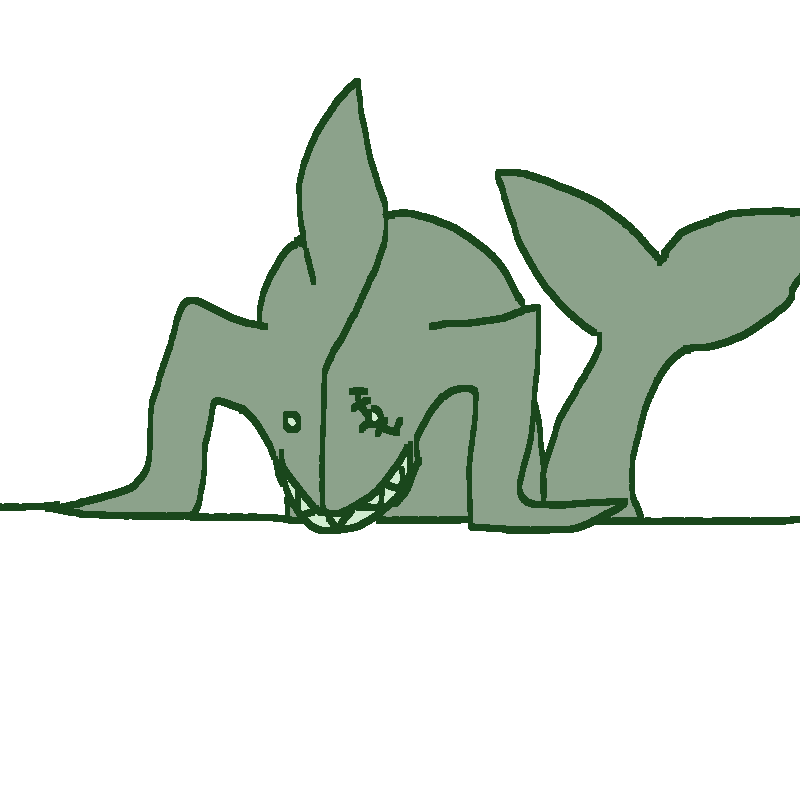
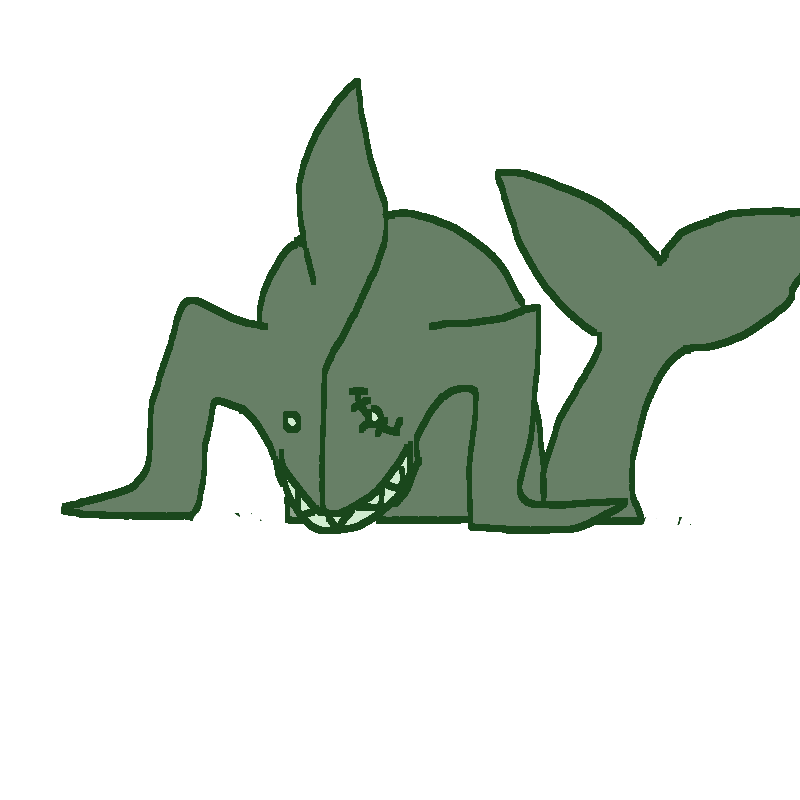
a couple more office foregrounds and proper handling of the 3d elements of the Shark and Penguin clerks. I wanted to add functionality to flip the paraity of Day upon visiting or revisiting any location, but somehow my logic reinforces itself to always set it to true. I looked at it and I cannot see

Changed region(s): [[0.0, 0.0938, 1.0, 0.6562]]

diff --git a/gold.js b/gold.js
@@ -1,12 +1,13 @@
 
 let fg = document.getElementById("Office");
 let clerk = document.getElementById("Clerk");
+let front = document.getElementById("Front");
 let office = localStorage.getItem('office');    //0: Tiger, 1: Locust, 2: Mushroom, 3: Appraisal
-let day = localStorage.getItem('day');          //true: daytime worker, false: night worker; this alternates on visiting the appraisal office particularly.
-console.log(office);
+let day = localStorage.getItem('day');          //true: daytime worker, false: night worker; this alternates on visiting any location, including revisits.
+console.log("Office: " + office + "; Daytime: " + day);
 let plotPoint = 4;
 if(office == 0){
-    document.body.style.backgroundColor = "#35453b";
+    document.body.style.backgroundColor = "#416558";
     fg.src = "images/bankers/TigerOffice.png"
     clerk.src = "images/bankers/Tiger.png";
     plotPoint = 17;
@@ -18,23 +19,27 @@ else if(office == 1){
     plotPoint = 10;
 }
 else if(office == 2){
-    document.body.style.backgroundColor = "#35453b";
+    document.body.style.backgroundColor = "#30481c";
     clerk.src = "images/bankers/Mushroom.png";
-    fg.src = "images/bankers/LocustOffice.png"
+    fg.src = "images/bankers/MushroomOffice.png"
     plotPoint = 21;
 }
 else{
-    document.body.style.backgroundColor = "#35453b";
-    fg.src = "images/bankers/LocustOffice.png"
+    document.body.style.backgroundColor = "#829b83";
+    fg.src = "images/bankers/AppraisalOffice.png"
     plotPoint = 6;
     if(day){
-        clerk.src = "images/bankers/Shark.png";
-        localStorage.setItem('day', false);
+        clerk.src = "images/bankers/SharkBack.png";
+        front.src = "images/bankers/SharkMouth.png";
+        console.log("It is daytime, and there is a shark running the Appraisal Shop.");
     }
     else{
-        clerk.src = "images/bankers/Penguin.png";
-        localStorage.setItem('day', true);
+        clerk.src = "images/bankers/PenguinBack.png";
+        front.src = "images/bankers/PenguinArm.png";
+        console.log("It is nighttime, and there is a penguin running the Appraisal Shop.");
     }
+    clerk.style.top = "10%";
+    front.style.display = "block";
         
 }
 
@@ -314,6 +319,10 @@ function mall(n, o, p){
     3: Appraisal    */
 document.getElementById("TigerMap").addEventListener("click", ()=>{
     if(navig == 17){
+        if(localStorage.getItem('day') == true)
+            localStorage.setItem('day', false);
+        else
+            localStorage.setItem('day', true);
         localStorage.setItem('office', 0);
         location.href="./Service.html";
     }
@@ -330,7 +339,12 @@ document.getElementById("TigerMap").addEventListener("click", ()=>{
 });
 document.getElementById("LocustMap").addEventListener("click", ()=>{
     if(navig == 10){
+        if(localStorage.getItem('day') == true)
+            localStorage.setItem('day', false);
+        else
+            localStorage.setItem('day', true);
         localStorage.setItem('office', 1);
+        console.log("Day after click, before load: " + day);
         location.href="./Service.html";
     }
     else if(!roadie){
@@ -346,6 +360,10 @@ document.getElementById("LocustMap").addEventListener("click", ()=>{
 });
 document.getElementById("MushroomMap").addEventListener("click", ()=>{
     if(navig == 21){
+        if(localStorage.getItem('day') == true)
+            localStorage.setItem('day', false);
+        else
+            localStorage.setItem('day', true);
         localStorage.setItem('office', 2);
         location.href="./Service.html";
     }
@@ -362,6 +380,10 @@ document.getElementById("MushroomMap").addEventListener("click", ()=>{
 });
 document.getElementById("AppraisalMap").addEventListener("click", ()=>{
     if(navig == 6){
+        if(localStorage.getItem('day') == true)
+            localStorage.setItem('day', false);
+        else
+            localStorage.setItem('day', true);
         localStorage.setItem('office', 3);
         location.href="./Service.html";
     }
@@ -375,8 +397,13 @@ document.getElementById("AppraisalMap").addEventListener("click", ()=>{
 });
 
 document.getElementById("HomeMap").addEventListener("click", () =>{
-    if(navig == 4)
+    if(navig == 4){
+        if(localStorage.getItem('day') == true)
+            localStorage.setItem('day', false);
+        else
+            localStorage.setItem('day', true);
         location.href="./PawnShop.html";
+    }
     else if(!roadie){
         roadie = true;
         if(navig == 0)
@@ -386,8 +413,13 @@ document.getElementById("HomeMap").addEventListener("click", () =>{
     }
 });
 document.getElementById("MinesMap").addEventListener("click", () =>{
-    if(navig == 0)
+    if(navig == 0){
         location.href="./DigSite.html";
+        if(localStorage.getItem('day') == true)
+            localStorage.setItem('day', false);
+        else
+            localStorage.setItem('day', true);
+    }
     else if(!roadie){
         roadie = true;
         mall(navig, navig - 1, 0);

diff --git a/salvage.js b/salvage.js
@@ -1,5 +1,6 @@
 document.body.style.backgroundColor = "#599aac";
-let day = localStorage.getItem('day');          //true: daytime worker, false: night worker; this alternates on visiting the appraisal office particularly.
+let day = localStorage.getItem('day');          //true: daytime worker, false: night worker; this alternates on visiting any location, including revisits.
+console.log("Daytime: " + day);
 captain = document.getElementById("Operator");
 if(day){
     console.log("Sun alert!");
@@ -698,6 +699,10 @@ function mall(n, o, p){
     3: Appraisal    */
 document.getElementById("TigerMap").addEventListener("click", ()=>{
     if(navig == 17){
+        if(localStorage.getItem('day') == true)
+            localStorage.setItem('day', false);
+        else
+            localStorage.setItem('day', true);
         localStorage.setItem('office', 0);
         location.href="./Service.html";
     }
@@ -714,6 +719,10 @@ document.getElementById("TigerMap").addEventListener("click", ()=>{
 });
 document.getElementById("LocustMap").addEventListener("click", ()=>{
     if(navig == 10){
+        if(localStorage.getItem('day') == true)
+            localStorage.setItem('day', false);
+        else
+            localStorage.setItem('day', true);
         localStorage.setItem('office', 1);
         location.href="./Service.html";
     }
@@ -730,6 +739,10 @@ document.getElementById("LocustMap").addEventListener("click", ()=>{
 });
 document.getElementById("MushroomMap").addEventListener("click", ()=>{
     if(navig == 21){
+        if(localStorage.getItem('day') == true)
+            localStorage.setItem('day', false);
+        else
+            localStorage.setItem('day', true);
         localStorage.setItem('office', 2);
         location.href="./Service.html";
     }
@@ -746,6 +759,10 @@ document.getElementById("MushroomMap").addEventListener("click", ()=>{
 });
 document.getElementById("AppraisalMap").addEventListener("click", ()=>{
     if(navig == 6){
+        if(localStorage.getItem('day') == true)
+            localStorage.setItem('day', false);
+        else
+            localStorage.setItem('day', true);
         localStorage.setItem('office', 3);
         location.href="./Service.html";
     }
@@ -759,8 +776,13 @@ document.getElementById("AppraisalMap").addEventListener("click", ()=>{
 });
 
 document.getElementById("HomeMap").addEventListener("click", () =>{
-    if(navig == 4)
+    if(navig == 4){
+        if(localStorage.getItem('day') == true)
+            localStorage.setItem('day', false);
+        else
+            localStorage.setItem('day', true);
         location.href="./PawnShop.html";
+    }
     else if(!roadie){
         roadie = true;
         if(navig == 0)
@@ -770,8 +792,13 @@ document.getElementById("HomeMap").addEventListener("click", () =>{
     }
 });
 document.getElementById("MinesMap").addEventListener("click", () =>{
-    if(navig == 0)
+    if(navig == 0){
         location.href="./DigSite.html";
+        if(localStorage.getItem('day') == true)
+            localStorage.setItem('day', false);
+        else
+            localStorage.setItem('day', true);
+    }
     else if(!roadie){
         roadie = true;
         mall(navig, navig - 1, 0);

diff --git a/barter.js b/barter.js
@@ -1,3 +1,5 @@
+let day = localStorage.getItem('day');          //true: daytime worker, false: night worker; this alternates on visiting any location, including revisits.
+console.log("Office: " + office + "; Daytime: " + day);
 const loans = {
     1: {name: "Loan 1", interest: 0, elapsed: 0, principle: 0},
     2: {name: "Loan 2", interest: 0, elapsed: 0, principle: 0},
@@ -465,6 +467,10 @@ function mall(n, o, p){
     3: Appraisal    */
 document.getElementById("TigerMap").addEventListener("click", ()=>{
     if(navig == 17){
+        if(localStorage.getItem('day') == true)
+            localStorage.setItem('day', false);
+        else
+            localStorage.setItem('day', true);
         localStorage.setItem('office', 0);
         location.href="./Service.html";
     }
@@ -481,6 +487,10 @@ document.getElementById("TigerMap").addEventListener("click", ()=>{
 });
 document.getElementById("LocustMap").addEventListener("click", ()=>{
     if(navig == 10){
+        if(localStorage.getItem('day') == true)
+            localStorage.setItem('day', false);
+        else
+            localStorage.setItem('day', true);
         localStorage.setItem('office', 1);
         location.href="./Service.html";
     }
@@ -497,6 +507,10 @@ document.getElementById("LocustMap").addEventListener("click", ()=>{
 });
 document.getElementById("MushroomMap").addEventListener("click", ()=>{
     if(navig == 21){
+        if(localStorage.getItem('day') == true)
+            localStorage.setItem('day', false);
+        else
+            localStorage.setItem('day', true);
         localStorage.setItem('office', 2);
         location.href="./Service.html";
     }
@@ -513,6 +527,10 @@ document.getElementById("MushroomMap").addEventListener("click", ()=>{
 });
 document.getElementById("AppraisalMap").addEventListener("click", ()=>{
     if(navig == 6){
+        if(localStorage.getItem('day') == true)
+            localStorage.setItem('day', false);
+        else
+            localStorage.setItem('day', true);
         localStorage.setItem('office', 3);
         location.href="./Service.html";
     }
@@ -526,8 +544,13 @@ document.getElementById("AppraisalMap").addEventListener("click", ()=>{
 });
 
 document.getElementById("HomeMap").addEventListener("click", () =>{
-    if(navig == 4)
+    if(navig == 4){
+        if(localStorage.getItem('day') == true)
+            localStorage.setItem('day', false);
+        else
+            localStorage.setItem('day', true);
         location.href="./PawnShop.html";
+    }
     else if(!roadie){
         roadie = true;
         if(navig == 0)
@@ -537,8 +560,13 @@ document.getElementById("HomeMap").addEventListener("click", () =>{
     }
 });
 document.getElementById("MinesMap").addEventListener("click", () =>{
-    if(navig == 0)
+    if(navig == 0){
         location.href="./DigSite.html";
+        if(localStorage.getItem('day') == true)
+            localStorage.setItem('day', false);
+        else
+            localStorage.setItem('day', true);
+    }
     else if(!roadie){
         roadie = true;
         mall(navig, navig - 1, 0);

diff --git a/Service.html b/Service.html
@@ -11,6 +11,7 @@
     <div id="Booth"></div>
     <img src="images/bankers/LocustOffice.png" id="Office" style="position: absolute; z-index: 2; left: -1%; top: -1%; width: 101%; height: 100.5%;">
     <img src="images/bankers/Locust0.png" id="Clerk" style="position: absolute; left: 30%;">
+    <img src="images/bankers/SharkMouth.png" id="Front" style="position: absolute; left: 30%; top: 10%; z-index: 3; display: none;">
     <img src="images/pawnshop/Map.png" id="Map" style="position: absolute; z-index: 5; cursor: pointer; left: -2%; top: 15%; width: 15%">
 
     <!--The Map-->